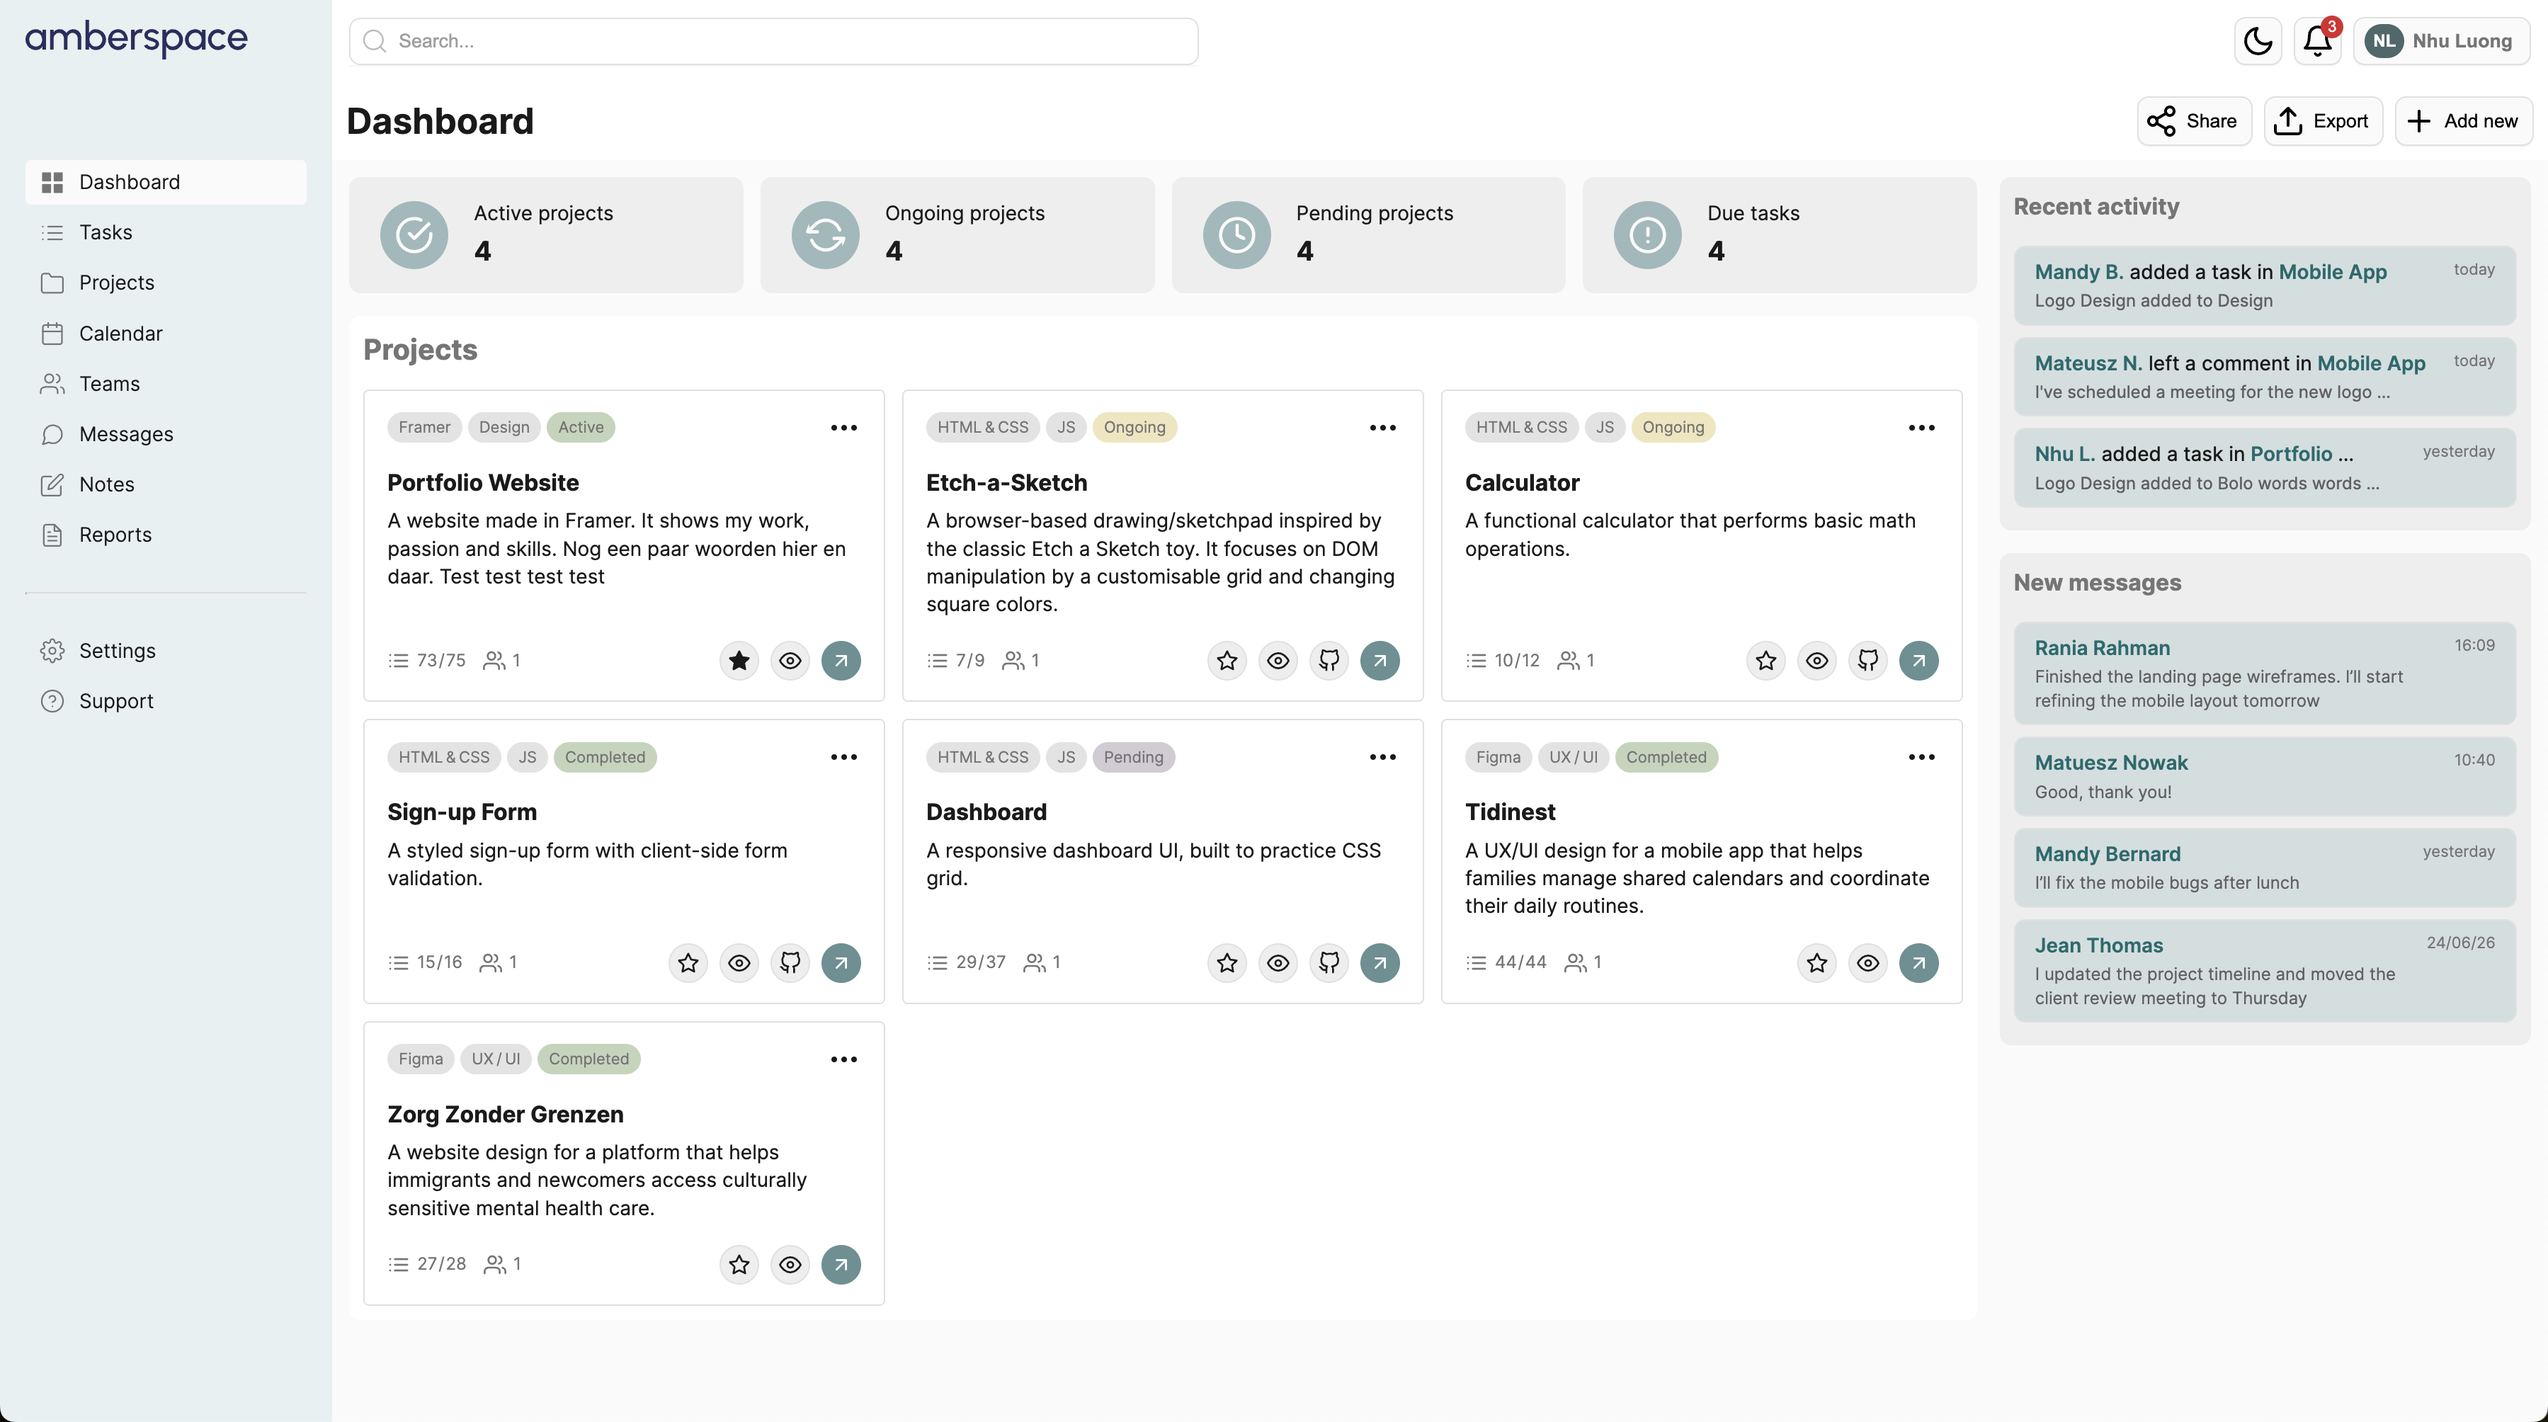
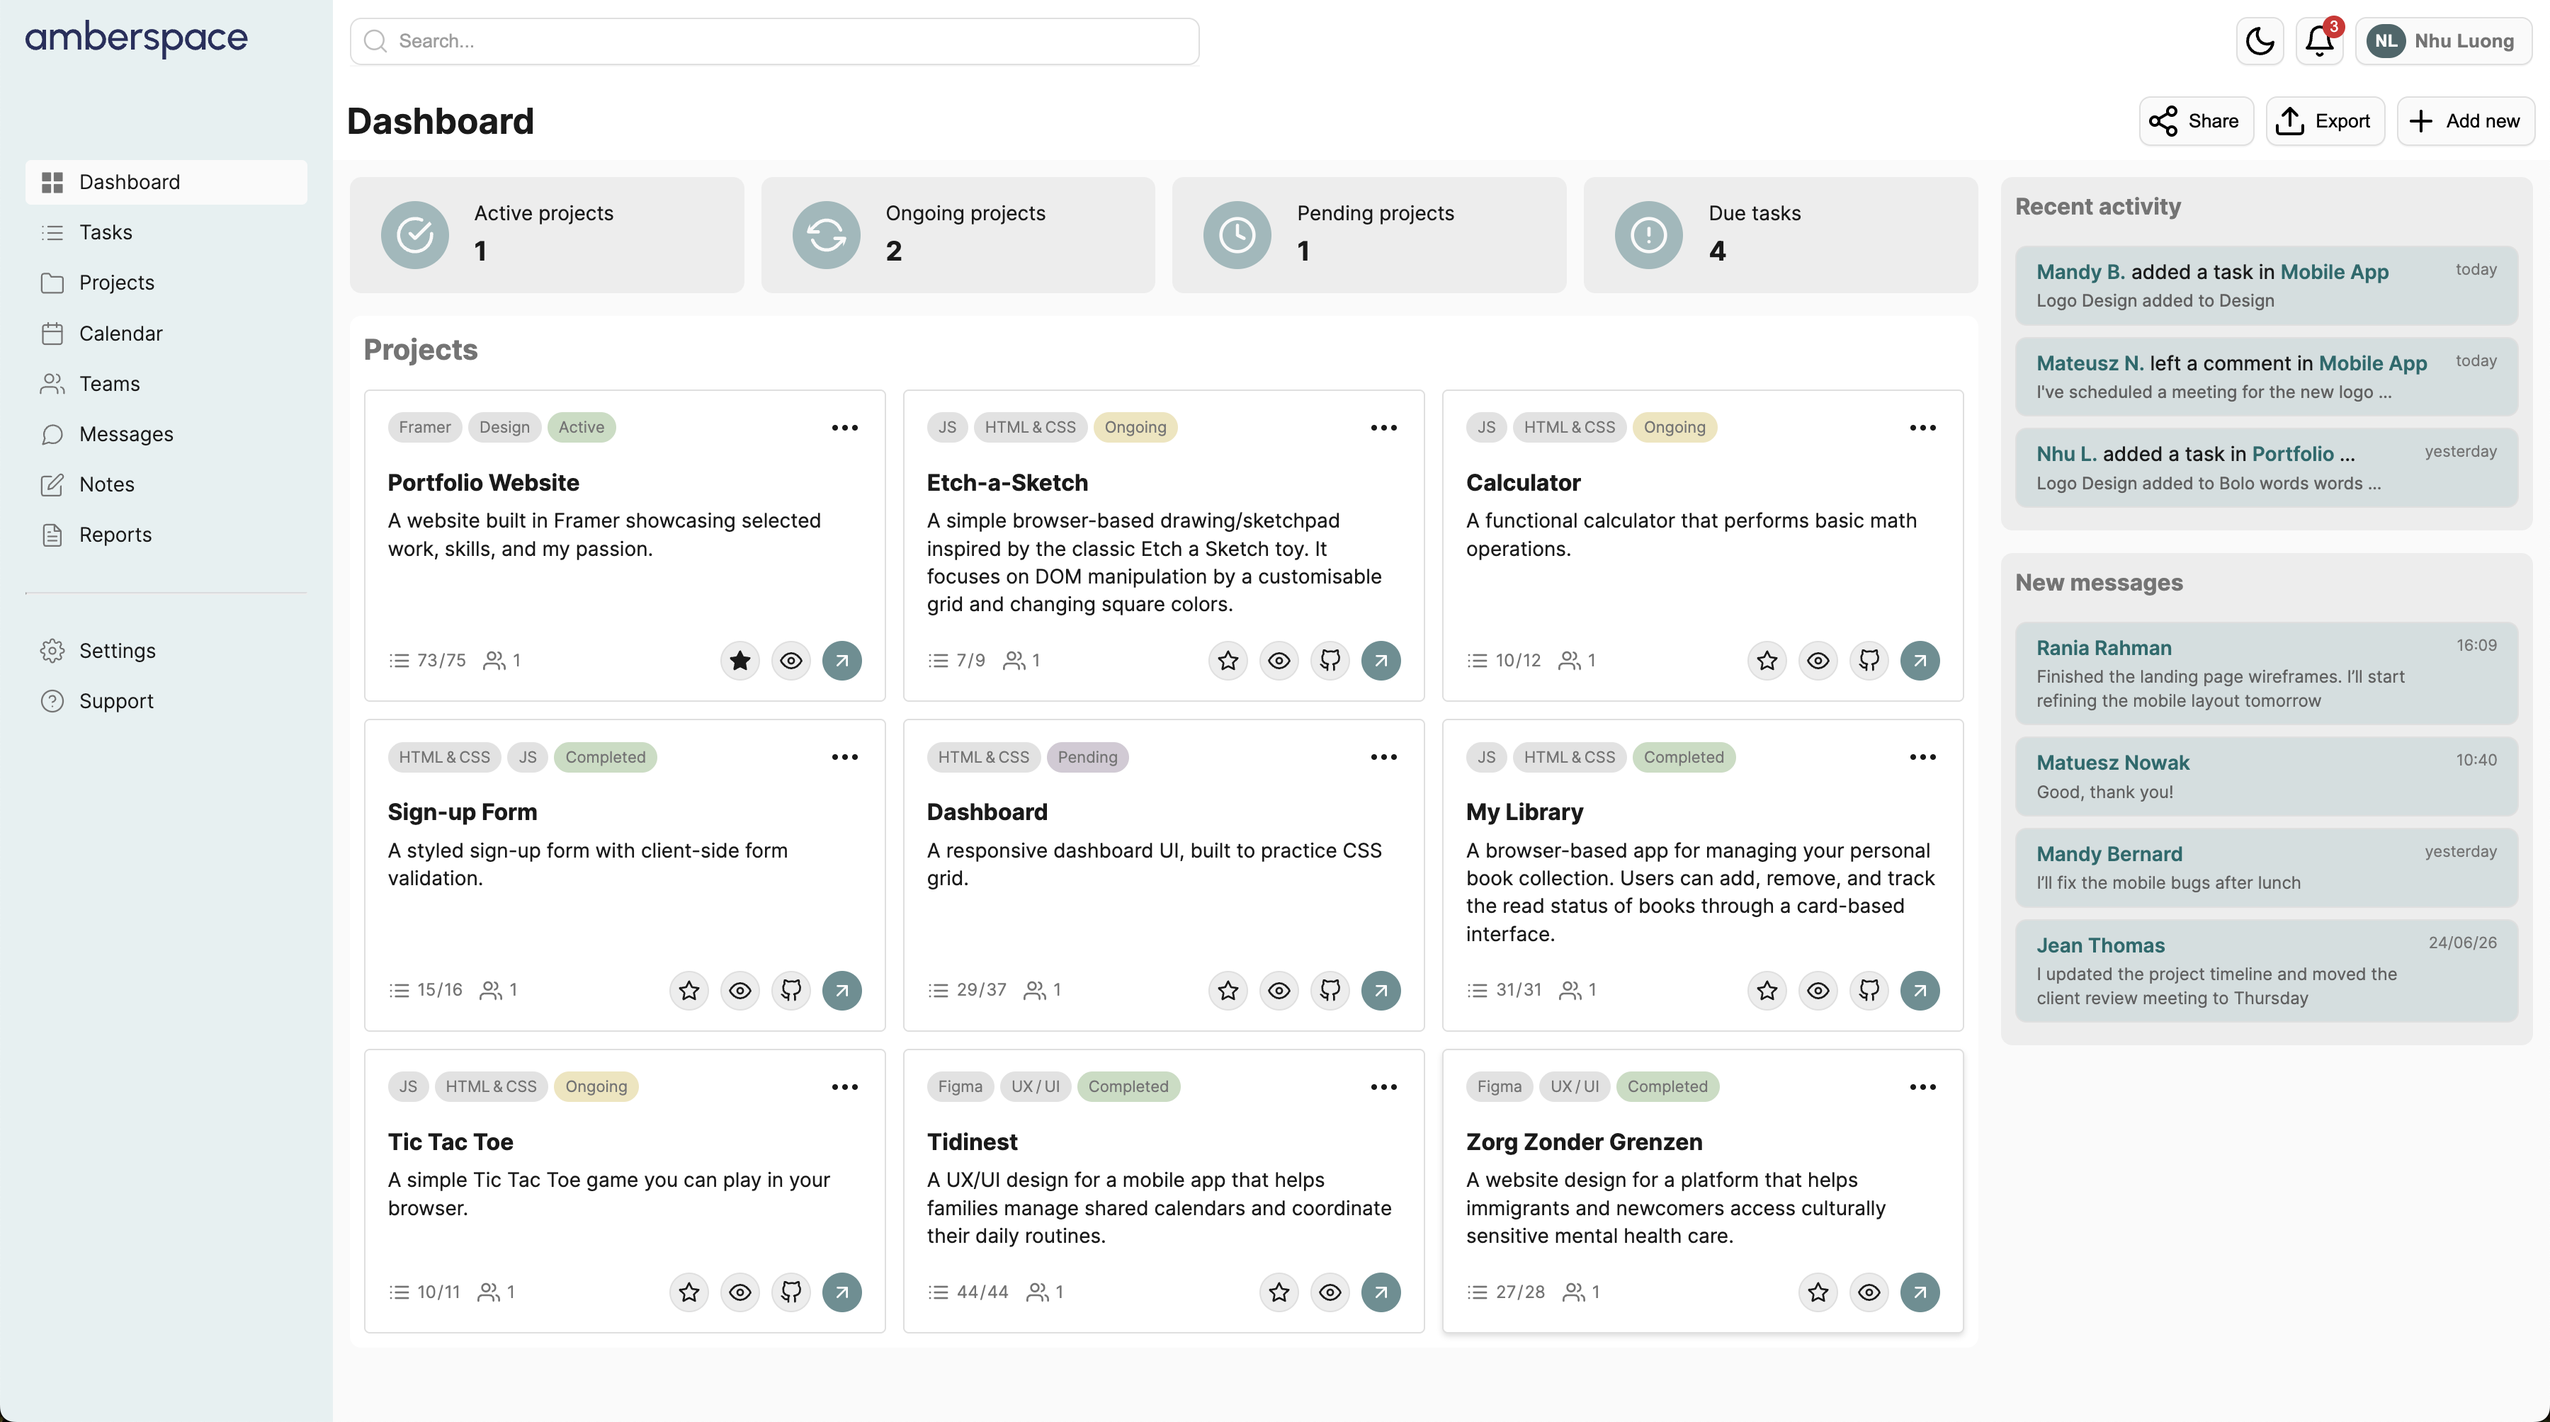
Update HTML complete project cards information

diff --git a/index.html b/index.html
@@ -98,7 +98,7 @@
                     </div>
                     <div class="project-card-body">
                         <h3>Portfolio Website</h3>
-                        <p>A website made in Framer. It shows my work, passion and skills. Nog een paar woorden hier en daar. Test test test test</p>
+                        <p>A website built in Framer showcasing selected work, skills, and my passion.</p>
                     </div>
                     <div class="project-card-footer">
                         <div class="project-card-stats">
@@ -119,8 +119,8 @@
                 <article class="project-card">
                     <div class="project-card-header">
                         <div class="project-card-tags">
-                            <span class="project-card-tag">HTML & CSS</span>
                             <span class="project-card-tag">JS</span>
+                            <span class="project-card-tag">HTML & CSS</span>
                             <span class="project-card-tag tag-ongoing">Ongoing</span>
                         </div>
                         <svg class="project-option-icon"><use href="./svg/feather-sprite.svg#more-horizontal"></svg>
@@ -149,8 +149,8 @@
                 <article class="project-card">
                     <div class="project-card-header">
                         <div class="project-card-tags">
-                            <span class="project-card-tag">HTML & CSS</span>
                             <span class="project-card-tag">JS</span>
+                            <span class="project-card-tag">HTML & CSS</span>
                             <span class="project-card-tag tag-ongoing">Ongoing</span>
                         </div>
                         <svg class="project-option-icon"><use href="./svg/feather-sprite.svg#more-horizontal"></svg>
@@ -210,7 +210,6 @@
                     <div class="project-card-header">
                         <div class="project-card-tags">
                             <span class="project-card-tag">HTML & CSS</span>
-                            <span class="project-card-tag">JS</span>
                             <span class="project-card-tag tag-pending">Pending</span>
                         </div>
                         <svg class="project-option-icon"><use href="./svg/feather-sprite.svg#more-horizontal"></svg>
@@ -230,8 +229,68 @@
                                 <svg class="project-action-icon"><use href="./svg/feather-sprite.svg#eye"></svg>
                                 <img class="screenshot" src="./img/dashboard.png">    
                             </div>
-                            <a href="#" class="project-card-action"><svg class="project-action-icon"><use href="./svg/feather-sprite.svg#github"></svg></a>
-                            <a href="#" class="project-card-action arrow"><svg class="project-action-icon"><use href="./svg/feather-sprite.svg#arrow-up-right"></svg></a>
+                            <a class="project-card-action" href="https://github.com/ttnluong/odin-admin-dashboard" target="_blank"><svg class="project-action-icon"><use href="./svg/feather-sprite.svg#github"></svg></a>
+                            <a class="project-card-action arrow" href="https://ttnluong.github.io/odin-admin-dashboard/" target="_blank"><svg class="project-action-icon"><use href="./svg/feather-sprite.svg#arrow-up-right"></svg></a>
+                        </div>
+                    </div>
+                </article>
+                <!-- card -->
+                <article class="project-card">
+                    <div class="project-card-header">
+                        <div class="project-card-tags">
+                             <span class="project-card-tag">JS</span>
+                            <span class="project-card-tag">HTML & CSS</span>
+                            <span class="project-card-tag tag-completed">Completed</span>
+                        </div>
+                        <svg class="project-option-icon"><use href="./svg/feather-sprite.svg#more-horizontal"></svg>
+                    </div>
+                    <div class="project-card-body">
+                        <h3>My Library</h3>
+                        <p>A browser-based app for managing your personal book collection. Users can add, remove, and track the read status of books through a card-based interface.</p>
+                    </div>
+                    <div class="project-card-footer">
+                        <div class="project-card-stats">
+                            <span><svg class="project-stat-icon"><use href="./svg/feather-sprite.svg#list"></svg><span class="project-stat-text">31 / 31</span></span>
+                            <span><svg class="project-stat-icon"><use href="./svg/feather-sprite.svg#users"></svg><span class="project-stat-text">1</span></span>
+                        </div>
+                        <div class="project-card-actions">
+                            <div class="project-card-action"><svg class="project-action-icon"><use href="./svg/feather-sprite.svg#star"></svg></div>
+                            <div class="project-card-action preview">
+                                <svg class="project-action-icon"><use href="./svg/feather-sprite.svg#eye"></svg>
+                                <img class="screenshot" src="./img/my_library.png">    
+                            </div>
+                            <a class="project-card-action" href="https://github.com/ttnluong/odin-library" target="_blank"><svg class="project-action-icon"><use href="./svg/feather-sprite.svg#github"></svg></a>
+                            <a class="project-card-action arrow" href="https://ttnluong.github.io/odin-library/" target="_blank"><svg class="project-action-icon"><use href="./svg/feather-sprite.svg#arrow-up-right"></svg></a>
+                        </div>
+                    </div>
+                </article>
+                <!-- card -->
+                <article class="project-card">
+                    <div class="project-card-header">
+                        <div class="project-card-tags">
+                             <span class="project-card-tag">JS</span>
+                            <span class="project-card-tag">HTML & CSS</span>
+                            <span class="project-card-tag tag-ongoing">Ongoing</span>
+                        </div>
+                        <svg class="project-option-icon"><use href="./svg/feather-sprite.svg#more-horizontal"></svg>
+                    </div>
+                    <div class="project-card-body">
+                        <h3>Tic Tac Toe</h3>
+                        <p>A simple Tic Tac Toe game you can play in your browser.</p>
+                    </div>
+                    <div class="project-card-footer">
+                        <div class="project-card-stats">
+                            <span><svg class="project-stat-icon"><use href="./svg/feather-sprite.svg#list"></svg><span class="project-stat-text">10 / 11</span></span>
+                            <span><svg class="project-stat-icon"><use href="./svg/feather-sprite.svg#users"></svg><span class="project-stat-text">1</span></span>
+                        </div>
+                        <div class="project-card-actions">
+                            <div class="project-card-action"><svg class="project-action-icon"><use href="./svg/feather-sprite.svg#star"></svg></div>
+                            <div class="project-card-action preview">
+                                <svg class="project-action-icon"><use href="./svg/feather-sprite.svg#eye"></svg>
+                                <img class="screenshot" src="./img/tic_tac_toe.png">    
+                            </div>
+                            <a class="project-card-action" href="https://github.com/ttnluong/odin-tic-tac-toe" target="_blank"><svg class="project-action-icon"><use href="./svg/feather-sprite.svg#github"></svg></a>
+                            <a class="project-card-action arrow" href="https://ttnluong.github.io/odin-tic-tac-toe/" target="_blank"><svg class="project-action-icon"><use href="./svg/feather-sprite.svg#arrow-up-right"></svg></a>
                         </div>
                     </div>
                 </article>
@@ -293,64 +352,6 @@
                         </div>
                     </div>
                 </article>
-                <!-- card -->
-                <article class="project-card">
-                    <div class="project-card-header">
-                        <div class="project-card-tags">
-                            <span class="project-card-tag">HTML & CSS</span>
-                            <span class="project-card-tag">JS</span>
-                            <span class="project-card-tag tag-completed">Completed</span>
-                        </div>
-                        <svg class="project-option-icon"><use href="./svg/feather-sprite.svg#more-horizontal"></svg>
-                    </div>
-                    <div class="project-card-body">
-                        <h3>My Library</h3>
-                        <p>A browser-based app for managing your personal book collection. Users can add, remove, and track the read status of books through a card-based interface.</p>
-                    </div>
-                    <div class="project-card-footer">
-                        <div class="project-card-stats">
-                            <span><svg class="project-stat-icon"><use href="./svg/feather-sprite.svg#list"></svg><span class="project-stat-text">31 / 31</span></span>
-                            <span><svg class="project-stat-icon"><use href="./svg/feather-sprite.svg#users"></svg><span class="project-stat-text">1</span></span>
-                        </div>
-                        <div class="project-card-actions">
-                            <div class="project-card-action"><svg class="project-action-icon"><use href="./svg/feather-sprite.svg#star"></svg></div>
-                            <div class="project-card-action preview">
-                                <svg class="project-action-icon"><use href="./svg/feather-sprite.svg#eye"></svg>
-                                <img class="screenshot" src="./img/my_library.png">    
-                            </div>
-                            <a class="project-card-action arrow" href="https://ttnluong.github.io/odin-library/" target="_blank"><svg class="project-action-icon"><use href="./svg/feather-sprite.svg#arrow-up-right"></svg></a>
-                        </div>
-                    </div>
-                </article>
-                <!-- card -->
-                <article class="project-card">
-                    <div class="project-card-header">
-                        <div class="project-card-tags">
-                            <span class="project-card-tag">HTML & CSS</span>
-                            <span class="project-card-tag">JS</span>
-                            <span class="project-card-tag tag-ongoing">Ongoing</span>
-                        </div>
-                        <svg class="project-option-icon"><use href="./svg/feather-sprite.svg#more-horizontal"></svg>
-                    </div>
-                    <div class="project-card-body">
-                        <h3>Tic Tac Toe</h3>
-                        <p>A simple Tic Tac Toe game you can play in your browser.</p>
-                    </div>
-                    <div class="project-card-footer">
-                        <div class="project-card-stats">
-                            <span><svg class="project-stat-icon"><use href="./svg/feather-sprite.svg#list"></svg><span class="project-stat-text">10 / 11</span></span>
-                            <span><svg class="project-stat-icon"><use href="./svg/feather-sprite.svg#users"></svg><span class="project-stat-text">1</span></span>
-                        </div>
-                        <div class="project-card-actions">
-                            <div class="project-card-action"><svg class="project-action-icon"><use href="./svg/feather-sprite.svg#star"></svg></div>
-                            <div class="project-card-action preview">
-                                <svg class="project-action-icon"><use href="./svg/feather-sprite.svg#eye"></svg>
-                                <img class="screenshot" src="./img/tic_tac_toe.png">    
-                            </div>
-                            <a class="project-card-action arrow" href="https://ttnluong.github.io/odin-tic-tac-toe/" target="_blank"><svg class="project-action-icon"><use href="./svg/feather-sprite.svg#arrow-up-right"></svg></a>
-                        </div>
-                    </div>
-                </article>
             </section>
          </main>
          <!-- aside -->
@@ -398,6 +399,3 @@
          </aside>
     </div>
 </body>
-
-
-<strong>Mandy B.</strong> added a task in <strong>Bolo jolo</strong>
